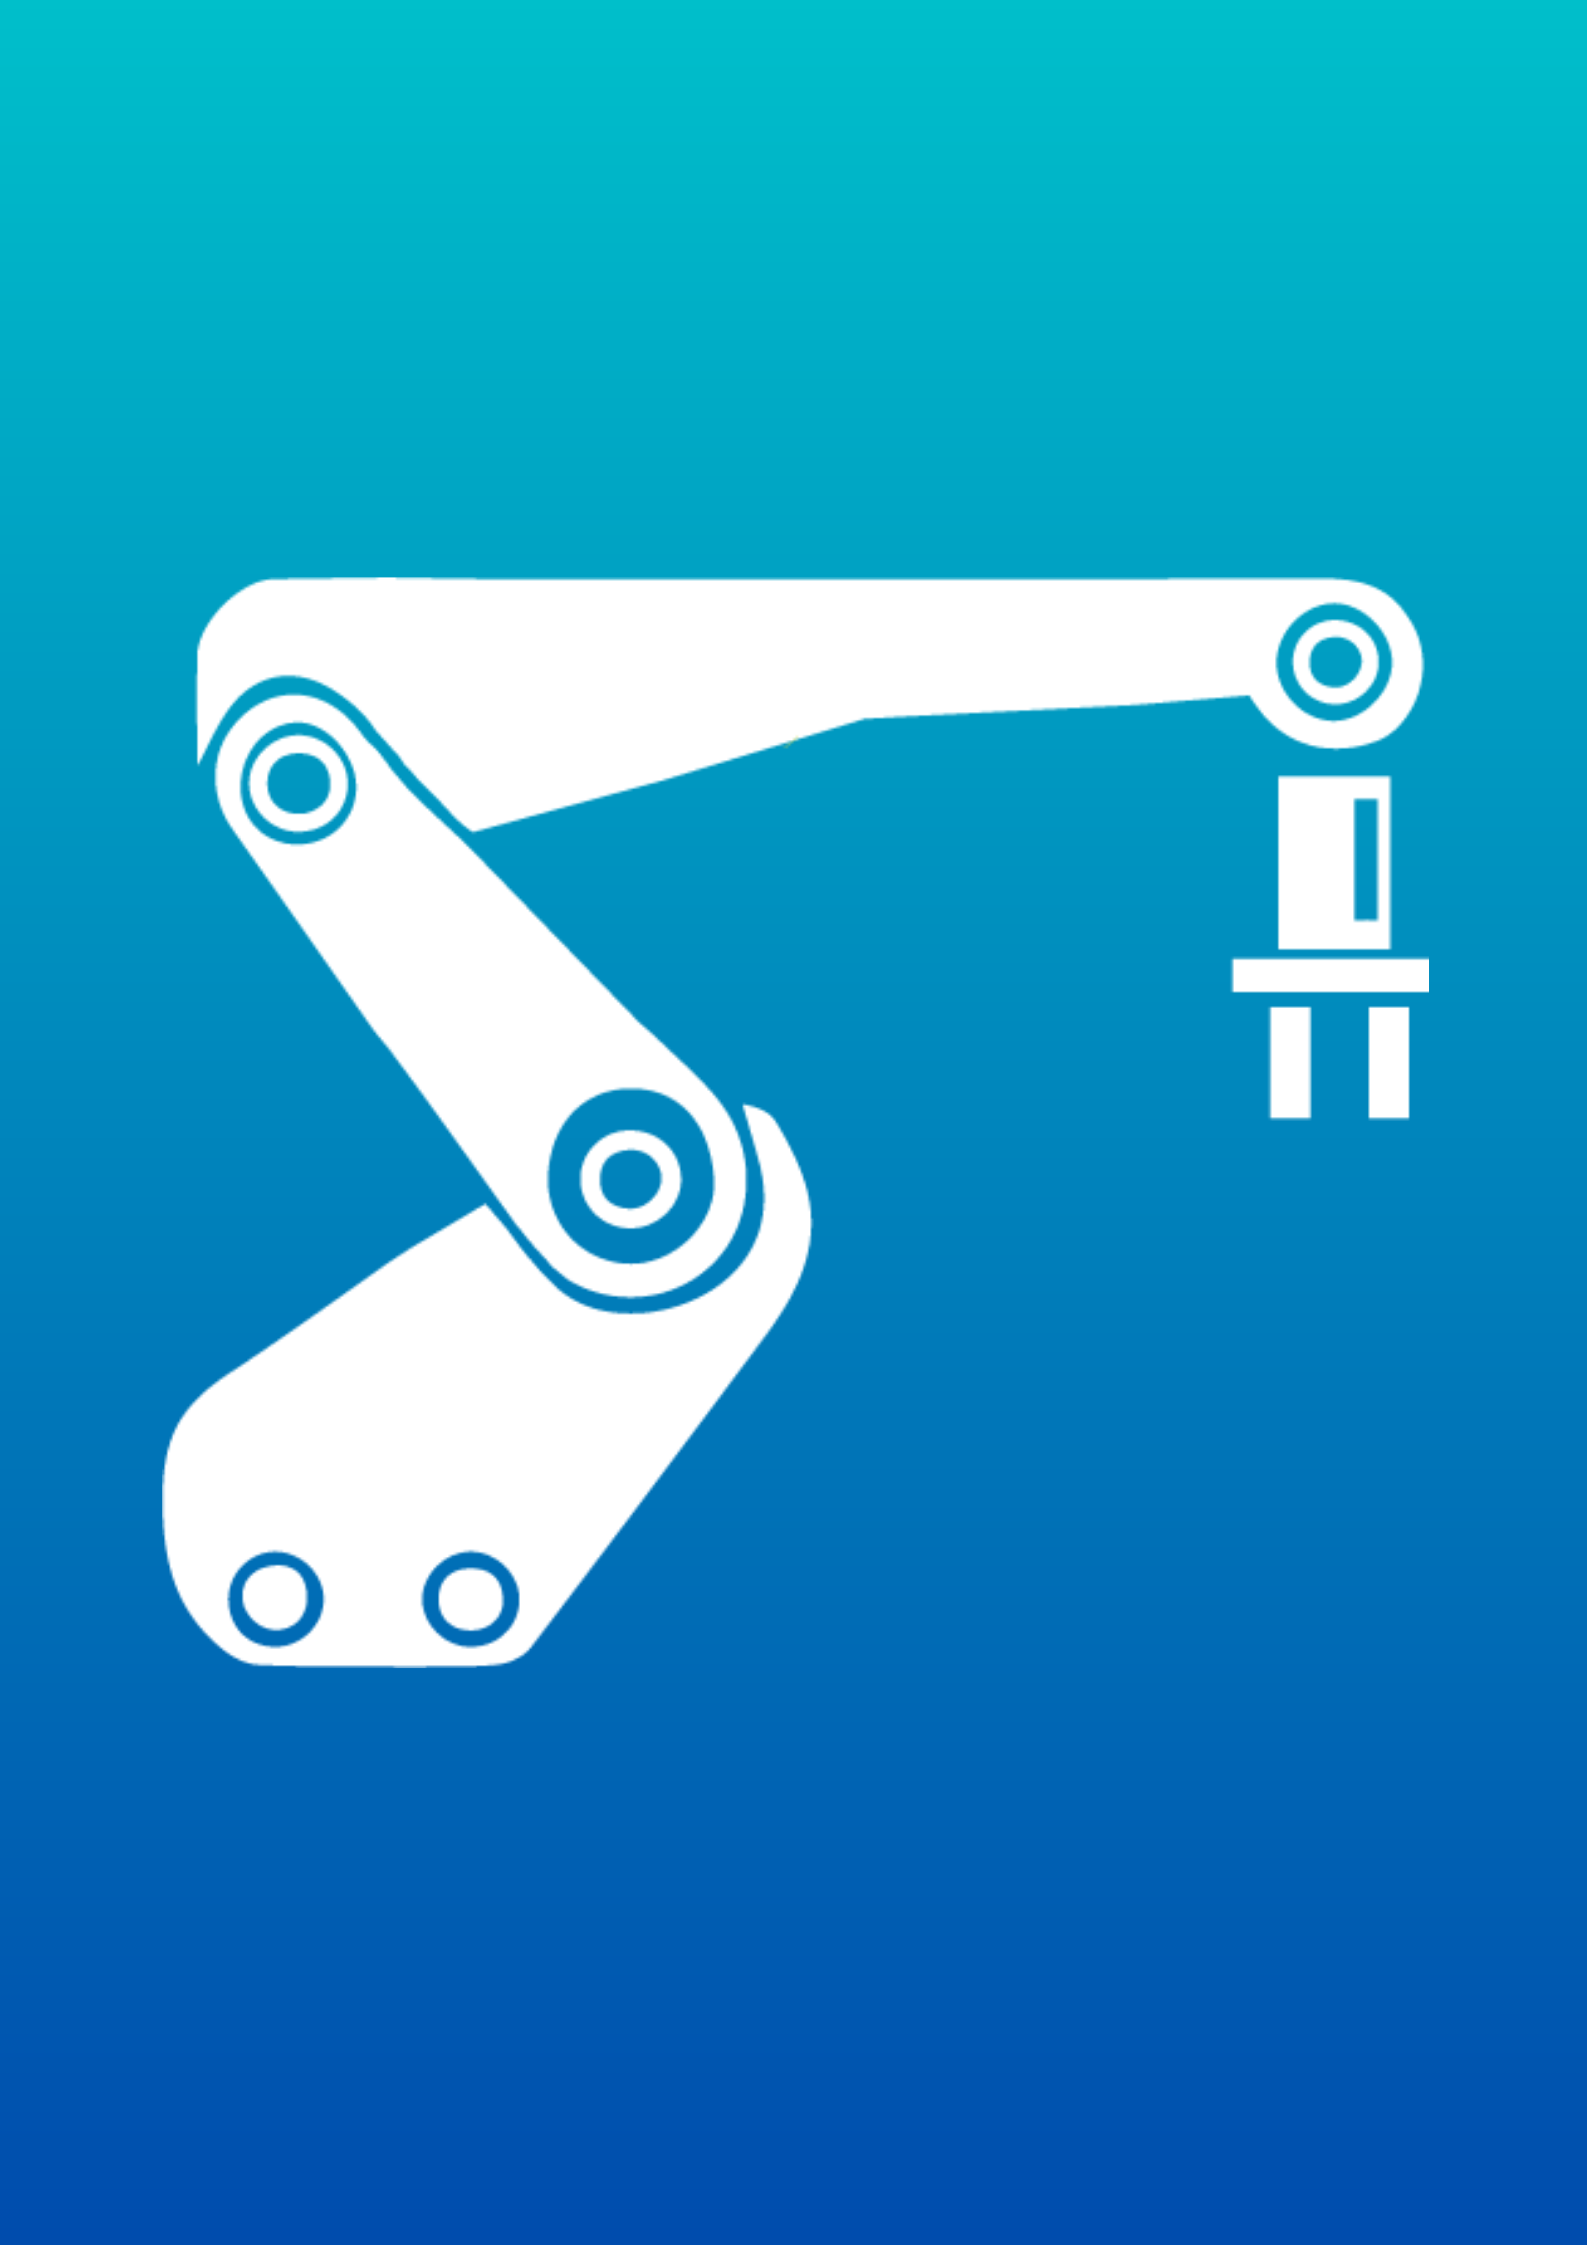
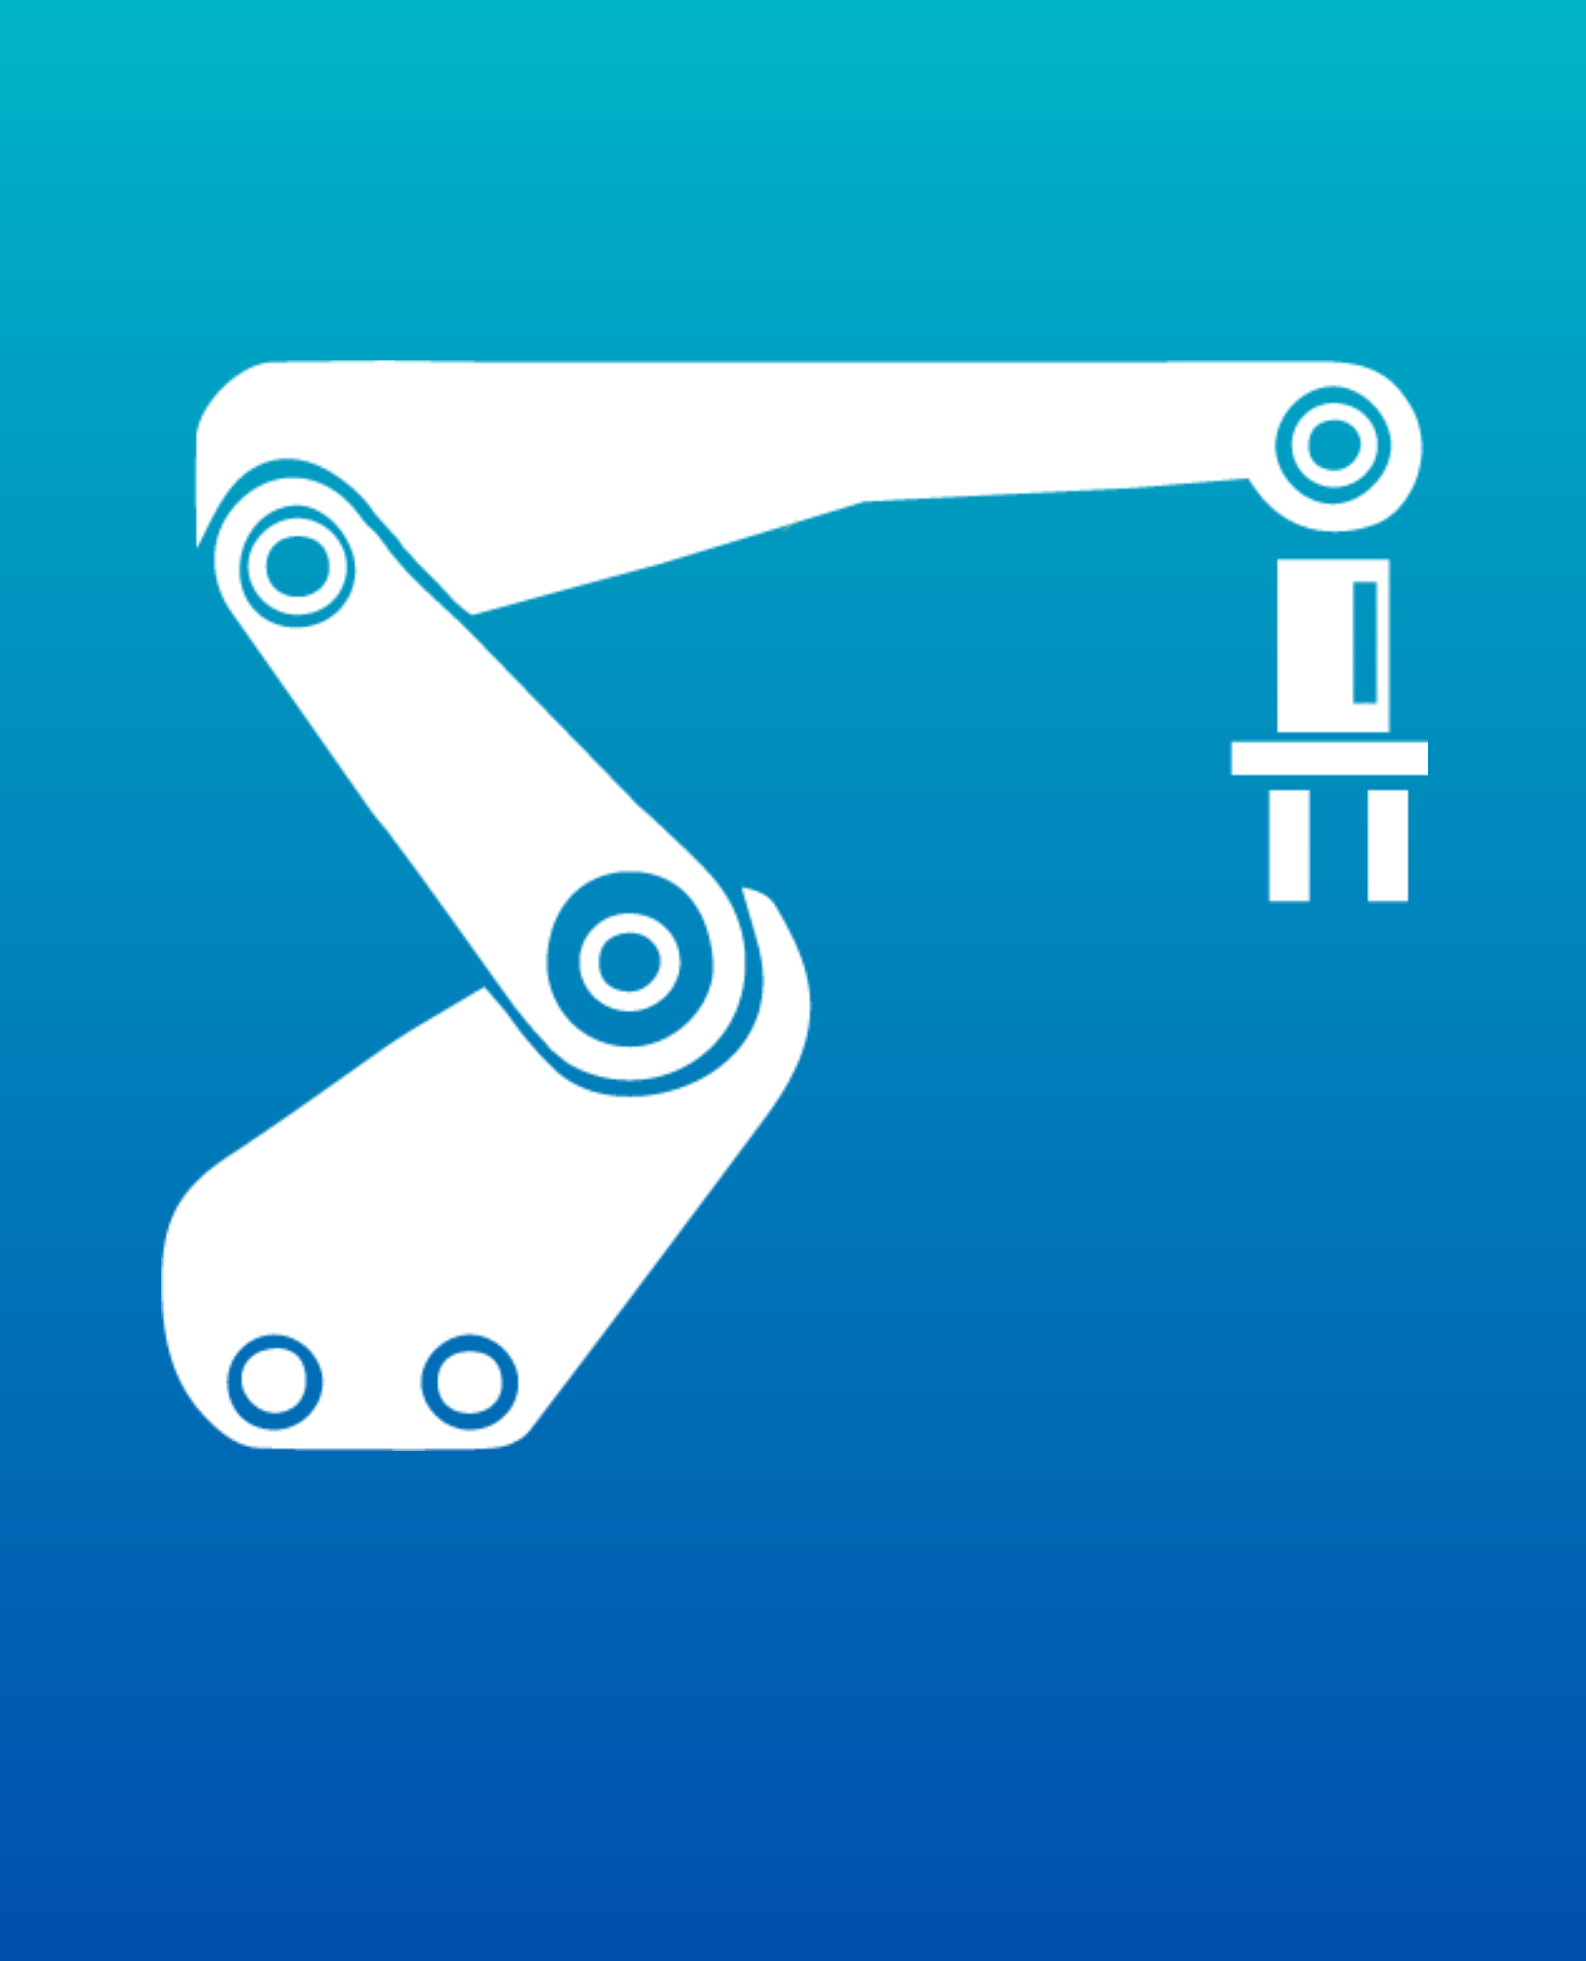
stilos y png de servicios

Changed region(s): [[0.0927, 0.1866, 0.896, 0.7466]]

diff --git a/js/services.js b/js/services.js
@@ -1,5 +1,5 @@
 const automatizacion = {
-  img: 'brazo-edit.png',
+  img: 'automatizacion.png',
   description: 'Contamos con personal capacitado para automatizar rutinas de tu hogar, taller, empresa, local comercial o club. Se trata de programar tiempos y condiciones para cosas, procesos y más. Ajustamos tu proyecto a medida y a optima funcionalidad.',
   category: 'Automatización',
   works: [
@@ -54,13 +54,13 @@ const setInfoModal = (category) => {
   <div class="modal-info p-4">
     <h3 class="font-weight-normal mb-3">${category.category}</h3>
     <p class="text-muted">${category.description}</p>
-    <h5 class="text-uppercase mb-2">Trabajos</h5>
+    <p class="text-uppercase mb-2"><strong>Trabajos</strong></p>
     <ul class="text-muted mb-4">
     <!-- listItems insetados mas abajo -->
     </ul>
     <span class="d-inline-block d-md-none">Toca para cerrar</span>
   </div>
-  <div class="modal-img p-4">
+  <div class="modal-img view">
     <i class="fas fa-times"></i>
     <div class="img-container">
       <img class="img-fluid" src="img/servicios/${category.img}" alt="${category.category} imagen">

diff --git a/css/style.css b/css/style.css
@@ -437,12 +437,17 @@ nav > .whatsapp-btn{
 }
 #modalServices > .modal-img{
   display: none;
+  background-color: linear-gradient(bottom, #004aad, 40%, #00c4cc, 60%);
+
 }
 #modalServices > .modal-img > i{
   justify-self: end;
   border-radius: 50%;
   font-size: 20px;
   cursor: pointer;
+  margin-top: 2%;
+  margin-right: 3%;
+  color: #414242;
 }
 #modalServices > .modal-img > i:hover{
   color: #fff;
@@ -867,7 +872,7 @@ footer > .copyright-footer{
     display: grid;
     grid-template-columns: 1fr;
     grid-template-rows: auto 1fr;
-    background-color: var(--colorBrand3);
+    background-image:linear-gradient(bottom, #004aad, 40%, #00c4cc, 60%);
   }
 
   #portafolio > .portafolio-container{
